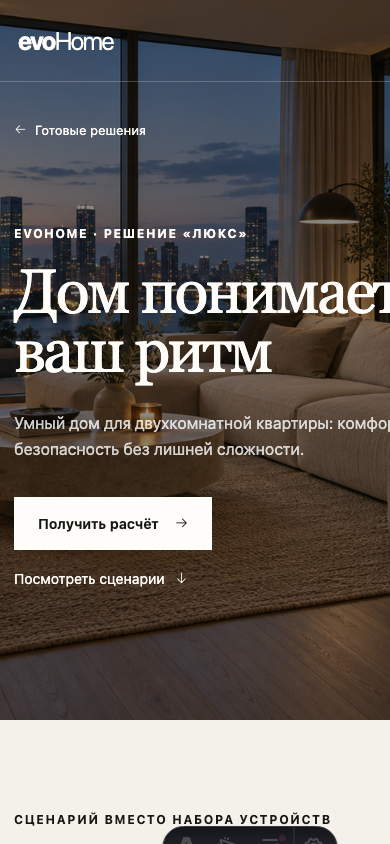
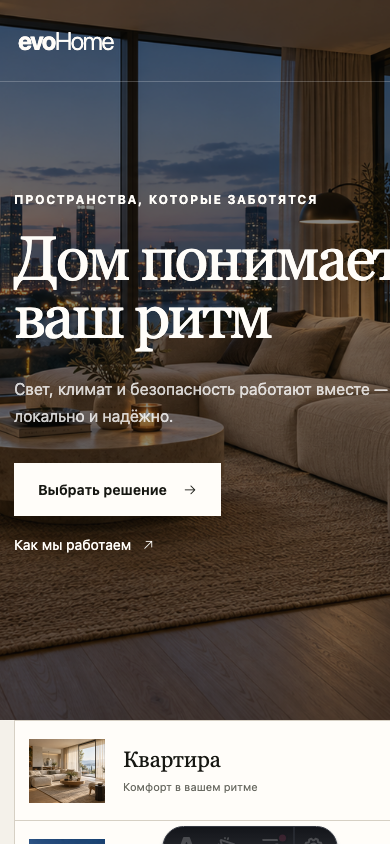
feat(office): enrich evoHome homepage visual story

diff --git a/clients/office/site/src/styles/global.css b/clients/office/site/src/styles/global.css
@@ -144,24 +144,51 @@ form .button { margin-top: 8px; justify-self: start; }
 /* Multi-page structure */
 .home-hero { min-height: 820px; }
 .home-copy { padding-top: 230px; }
-.intro { padding: 140px 0; }
-.intro h2 { max-width: 950px; }
-.intro-grid { margin-top: 55px; display: grid; grid-template-columns: 1fr 1fr; gap: 80px; align-items: end; }
-.intro-grid p { max-width: 520px; margin: 0; color: var(--muted); font-size: 17px; }
-.arrow-link { justify-self: end; display: flex; align-items: center; gap: 14px; border-bottom: 1px solid var(--ink); padding-bottom: 8px; }
-.featured { display: grid; grid-template-columns: 1.3fr .7fr; min-height: 610px; background: var(--paper-deep); }
-.featured-image { display: grid; place-items: center; overflow: hidden; }
-.featured-image img { width: 94%; mix-blend-mode: multiply; }
-.featured-copy { padding: 70px 55px; background: var(--ink); color: var(--white); display: flex; flex-direction: column; justify-content: center; align-items: flex-start; }
-.featured-copy h2 { font-size: clamp(48px,5vw,72px); }
-.featured-copy > p:not(.eyebrow) { color: #b9bab3; margin: 25px 0 35px; }
-.route-cards { padding: 120px 0; display: grid; grid-template-columns: repeat(3,1fr); }
-.route-cards > a { min-height: 300px; padding: 28px; border: 1px solid var(--line); border-right: 0; position: relative; }
-.route-cards > a:last-child { border-right: 1px solid var(--line); }
-.route-cards span { color: var(--muted); font-size: 12px; }
-.route-cards h3 { margin: 120px 0 10px; font: 400 31px Georgia,serif; }
-.route-cards p { color: var(--muted); font-size: 13px; max-width: 250px; }
-.route-cards i { position: absolute; right: 28px; top: 28px; font-size: 22px; }
+.audience-strip { margin-top: -58px; position: relative; z-index: 3; display: grid; grid-template-columns: repeat(3,1fr); background: var(--white); }
+.audience-strip > a { min-height: 116px; padding: 18px; display: grid; grid-template-columns: 92px 1fr auto; gap: 18px; align-items: center; border: 1px solid var(--line); border-right: 0; }
+.audience-strip > a:last-child { border-right: 1px solid var(--line); }
+.audience-strip img { width: 92px; height: 78px; object-fit: cover; }
+.audience-strip strong,.audience-strip span { display: block; }
+.audience-strip strong { margin-bottom: 8px; font: 400 22px Georgia,serif; }
+.audience-strip span { color: var(--muted); font-size: 11px; line-height: 1.35; }
+.audience-strip i { font-size: 19px; }
+.home-benefits,.home-solutions { padding: 130px 0; }
+.home-benefits > .eyebrow { margin-bottom: 44px; }
+.benefit-grid,.solution-preview-grid { display: grid; grid-template-columns: repeat(3,1fr); gap: 24px; }
+.benefit-grid article { border-top: 1px solid var(--line); }
+.benefit-grid img { width: 100%; aspect-ratio: 1.28; object-fit: cover; }
+.benefit-grid article:last-child img { background: var(--paper-deep); object-fit: contain; padding: 12px; }
+.benefit-grid h2 { min-height: 96px; margin-top: 27px; font-size: clamp(31px,3vw,42px); line-height: 1.03; }
+.benefit-grid p { max-width: 330px; margin: 20px 0 0; color: var(--muted); font-size: 14px; }
+.home-solutions { border-top: 1px solid var(--line); }
+.home-section-head { margin-bottom: 58px; display: grid; grid-template-columns: 1.35fr .65fr; gap: 80px; align-items: end; }
+.home-section-head h2 { font-size: clamp(56px,7vw,92px); }
+.home-section-head > p { max-width: 390px; margin: 0; color: var(--muted); }
+.solution-preview-grid > a { background: var(--paper-deep); }
+.solution-preview-grid img { width: 100%; aspect-ratio: 1.35; object-fit: cover; }
+.solution-preview-grid > a:nth-child(2) img { filter: saturate(.78); }
+.solution-preview-grid > a > div { min-height: 230px; padding: 24px; position: relative; border: 1px solid var(--line); border-top: 0; }
+.solution-preview-grid span { color: var(--muted); font-size: 11px; }
+.solution-preview-grid h3 { margin: 54px 0 8px; font: 400 39px Georgia,serif; }
+.solution-preview-grid p { margin: 0; max-width: 250px; color: var(--muted); font-size: 13px; }
+.solution-preview-grid i { position: absolute; top: 22px; right: 23px; font-size: 20px; }
+.home-process { padding: 120px 0; display: grid; grid-template-columns: .72fr 1.28fr; gap: 100px; border-top: 1px solid var(--line); }
+.home-process h2 { font-size: clamp(56px,6vw,82px); }
+.home-process ol { margin: 0; padding: 0; display: grid; grid-template-columns: repeat(2,1fr); list-style: none; border-top: 1px solid var(--line); border-left: 1px solid var(--line); }
+.home-process li { min-height: 190px; padding: 24px; border-right: 1px solid var(--line); border-bottom: 1px solid var(--line); }
+.home-process li span { display: block; color: var(--muted); font-size: 11px; }
+.home-process li strong { display: block; margin-top: 55px; font: 400 26px Georgia,serif; }
+.home-process li p { margin: 9px 0 0; color: var(--muted); font-size: 12px; }
+.project-banner { min-height: 600px; position: relative; display: flex; align-items: center; color: var(--white); overflow: hidden; }
+.project-banner > img,.project-banner-shade { position: absolute; inset: 0; width: 100%; height: 100%; }
+.project-banner > img { object-fit: cover; }
+.project-banner-shade { background: rgb(10 12 10 / .46); }
+.project-banner-copy { position: relative; z-index: 1; }
+.project-banner h2 { max-width: 870px; font-size: clamp(58px,7vw,96px); }
+.project-banner-copy > p:not(.eyebrow) { margin: 28px 0 34px; color: rgb(255 255 255 / .8); }
+.home-contact { padding: 100px 0; display: grid; grid-template-columns: 1.15fr .7fr auto; gap: 70px; align-items: end; }
+.home-contact h2 { font-size: clamp(48px,5.5vw,76px); }
+.home-contact > p { max-width: 380px; margin: 0; color: var(--muted); }
 .page-hero { padding: 125px 0 105px; }
 .page-hero h1 { font-size: clamp(66px,8vw,112px); }
 .page-hero h1 em { color: #85867d; font-style: normal; }
@@ -233,9 +260,17 @@ form .button { margin-top: 8px; justify-self: start; }
   .media-placeholder:first-child { grid-column: 1 / -1; aspect-ratio: 16 / 8; }
   .site-header.header-light nav { background: var(--paper); }
   .site-header.header-light .menu-toggle { color: var(--ink); }
-  .featured { grid-template-columns: 1fr; }
-  .route-cards,.tier-grid,.process-grid { grid-template-columns: 1fr 1fr; }
-  .route-cards > a:nth-child(2),.tier-card:nth-child(2),.process-grid article:nth-child(2) { border-right: 1px solid var(--line); }
+  .audience-strip { grid-template-columns: 1fr; margin-top: 0; width: 100%; }
+  .audience-strip > a { border-right: 1px solid var(--line); border-bottom: 0; }
+  .audience-strip > a:last-child { border-bottom: 1px solid var(--line); }
+  .benefit-grid,.solution-preview-grid { grid-template-columns: 1fr 1fr; }
+  .benefit-grid article:last-child,.solution-preview-grid > a:last-child { grid-column: 1 / -1; }
+  .benefit-grid article:last-child img,.solution-preview-grid > a:last-child img { aspect-ratio: 2.2; }
+  .home-section-head,.home-process,.home-contact { grid-template-columns: 1fr; gap: 45px; }
+  .home-contact { align-items: start; }
+  .home-contact .button { justify-self: start; }
+  .tier-grid,.process-grid { grid-template-columns: 1fr 1fr; }
+  .tier-card:nth-child(2),.process-grid article:nth-child(2) { border-right: 1px solid var(--line); }
   .catalog-head { align-items: flex-start; flex-direction: column; gap: 25px; }
   .contact-page { grid-template-columns: 1fr; gap: 65px; }
 }
@@ -276,11 +311,23 @@ form .button { margin-top: 8px; justify-self: start; }
   .site-footer { padding: 35px 0; align-items: flex-start; flex-direction: column; }
   .footer-links { flex-wrap: wrap; }
   .home-copy { padding-top: 190px; }
-  .intro { padding: 90px 0; }.intro-grid { grid-template-columns: 1fr; gap: 35px; }.arrow-link { justify-self: start; }
-  .featured-copy { padding: 60px 28px; }.featured-image { min-height: 360px; }
-  .route-cards,.tier-grid,.process-grid,.values { grid-template-columns: 1fr; }
-  .route-cards > a,.route-cards > a:nth-child(2),.tier-card,.tier-card:nth-child(2),.process-grid article,.process-grid article:nth-child(2) { border-right: 1px solid var(--line); border-bottom: 0; }
-  .route-cards > a:last-child,.tier-card:last-child,.process-grid article:last-child { border-bottom: 1px solid var(--line); }
+  .audience-strip > a { grid-template-columns: 76px 1fr auto; min-height: 100px; padding: 12px 14px; }
+  .audience-strip img { width: 76px; height: 64px; }
+  .home-benefits,.home-solutions { padding: 90px 0; }
+  .benefit-grid,.solution-preview-grid { grid-template-columns: 1fr; gap: 45px; }
+  .benefit-grid article:last-child,.solution-preview-grid > a:last-child { grid-column: auto; }
+  .benefit-grid article:last-child img,.solution-preview-grid > a:last-child img { aspect-ratio: 1.35; }
+  .benefit-grid h2 { min-height: auto; }
+  .home-section-head { gap: 28px; margin-bottom: 42px; }
+  .home-process { padding: 90px 0; gap: 38px; }
+  .home-process ol { grid-template-columns: 1fr; }
+  .home-process li { min-height: 155px; }
+  .home-process li strong { margin-top: 38px; }
+  .project-banner { min-height: 620px; }
+  .home-contact { padding: 80px 0; gap: 28px; }
+  .tier-grid,.process-grid,.values { grid-template-columns: 1fr; }
+  .tier-card,.tier-card:nth-child(2),.process-grid article,.process-grid article:nth-child(2) { border-right: 1px solid var(--line); border-bottom: 0; }
+  .tier-card:last-child,.process-grid article:last-child { border-bottom: 1px solid var(--line); }
   .page-hero { padding: 85px 0 70px; }.page-hero h1 { font-size: 58px; }.page-hero > p:last-child { margin-left: 0; }
   .object-switch { overflow-x: auto; }.object-switch button { flex: 0 0 auto; }
   .size-pills { flex-wrap: wrap; }.tier-card { min-height: 450px; }

diff --git a/clients/office/site/design-qa.md b/clients/office/site/design-qa.md
@@ -1,63 +1,41 @@
-# Design QA: многостраничный сайт evoHome
+# Design QA: визуальная доработка главной evoHome
 
-Дата проверки: 2026-09-20.
+Дата: 2026-09-20. Состояние: локальная production-сборка, без авторизации.
 
-## Область проверки
+## Артефакты и нормализация
 
-- Главная: `http://127.0.0.1:4321/`.
-- Каталог решений: `http://127.0.0.1:4321/solutions/`.
-- Карточка решения: `http://127.0.0.1:4321/solutions/lux-2-room/`.
-- Контакты и реальный канал связи: `http://127.0.0.1:4321/contacts/`.
-- Desktop: 1440 × 1000 CSS px; mobile detail: 390 × 844 CSS px.
-- Сравнение выполнено с тремя исходными визуалами: `website-homepage-evohome.png`, `website-solutions-catalog.png`, `website-solution-detail.png`.
+- Source visual truth: `../plans/website-homepage-evohome.png`, 941 × 1672 px.
+- Implementation desktop: `design-implementation-homepage.png`, 1440 × 6000 px, CSS viewport 1440 × 6000, device scale 1.
+- Implementation mobile: `design-implementation-mobile.png`, 390 × 844 px, CSS viewport 390 × 844, device scale 1.
+- Совмещённое сравнение: `design-qa-comparison.png`, source и implementation в одном кадре.
+- Сравнение выполнено по одинаковому состоянию главной страницы. Из-за разной исходной длины макета оценивались композиция, масштаб и ритм секций, а не точное совпадение координат.
 
-## Актуальные доказательства
+## Сравнение и обязательные поверхности
 
-- `design-implementation-homepage.png` — главная, desktop.
-- `design-implementation-solutions.png` — каталог, desktop.
-- `design-implementation-detail.png` — карточка решения, desktop.
-- `design-implementation-mobile-detail.png` — карточка решения, mobile 390 px.
-- `design-qa-comparison.png` — три пары source / implementation в одном кадре.
+- Типографика: сохранена контрастная пара крупной антиквы и нейтрального гротеска; масштаб и переносы заголовков соответствуют editorial-направлению. Осталась допустимая P3-разница из-за системной Georgia.
+- Ритм и компоновка: вместо одного разреженного ряда теперь есть связная последовательность hero → тип объекта → выгоды → решения → этапы → проект → контакт. На 390 px сетки складываются в одну колонку без горизонтального переполнения.
+- Цвета: тёплый ivory, графит, тонкие серо-бежевые разделители и белые CTA соответствуют исходному visual direction; градиенты и тяжёлые тени не добавлялись.
+- Изображения: новые интерьерные кадры резкие, согласованы по температуре и кадрированию; план квартиры сохранён как схематический инженерный акцент.
+- Тексты: пользовательская польза описана конкретно — комфорт, безопасность, локальная работа, этапы и следующий шаг.
+- Focused regions: отдельно проверены hero с объектной навигацией, три карточки выгод, карточки решений и мобильный первый экран. Эти области содержат основные типографические, сеточные и image-crop риски.
 
-## Результат по шагам
+## История итераций
 
-1. **Главная — исправно.** Первый экран, отдельные смысловые секции и три маршрутные карточки образуют полноценную главную страницу. Основные CTA ведут в каталог и на страницу подхода.
-2. **Каталог решений — исправно.** Это отдельный маршрут с понятным выбором типа объекта, размера и уровня решения. Доступные действия ведут в detail или контакты; недоступные варианты явно отключены и помечены «скоро».
-3. **Карточка решения — исправно.** Hero, сценарии, интерактивная схема, состав, FAQ и следующий шаг сохраняют композицию исходного visual direction и образуют законченный пользовательский путь.
-4. **Mobile detail — исправно.** На 390 px нет горизонтального overflow (`innerWidth = scrollWidth = 390`); заголовок, CTA и следующий раздел читаемы. Мобильное меню открывается, а `aria-expanded` меняется с `false` на `true`.
-5. **Контакты — исправно.** Сайт не имитирует отправку заявки: вместо фальшивой формы показан честный текст о неподключённой онлайн-отправке и реальная ссылка на Telegram.
-
-## Сверка с исходными визуалами
-
-- Сохранена общая арт-дирекция: тёплая нейтральная палитра, крупная контрастная антиква, спокойная инженерная подача, интерьерные изображения и тонкие разделители.
-- Главная намеренно стала отдельной входной страницей, а не detail-страницей под видом главной; иерархия и маршруты теперь соответствуют задаче многостраничного сайта.
-- Каталог переведён из визуальной витрины в отдельный понятный маршрут. В текущем объёме активен один реальный объект/размер, остальные варианты не притворяются работающими фильтрами.
-- Detail сохраняет ключевой образ исходника и ведёт в честный канал контакта.
-- Точное покадровое совпадение не является целью: это адаптация трёх предоставленных направлений в единую систему страниц.
-
-## Повторная проверка прежних замечаний
-
-- **Fake form — исправлено.** Компонент контакта не содержит локального success-сценария или полей, которые якобы отправляются. Пользователь видит прямую ссылку в Telegram и пояснение об отсутствии отправки с сайта.
-- **Fake filters — исправлено.** Единственные доступные варианты имеют активное состояние и `aria-pressed="true"`; ещё не реализованные варианты являются `disabled` и подписаны «скоро».
-- **Недостающая ARIA-семантика — исправлено.** Основная навигация имеет `aria-label`; текущие ссылки получают `aria-current="page"`; мобильная кнопка имеет доступное имя и обновляемый `aria-expanded`; группы выбора имеют доступные названия.
-
-## UX и accessibility
-
-- Сильные стороны: последовательная навигация на всех страницах, заметные CTA, крупные цели касания, рабочее мобильное меню, содержательные `alt` у ключевых изображений.
-- Проверено в accessibility tree: главная ссылка, основная навигация, текущий маршрут и мобильное раскрытие доступны по семантике.
-- Скриншоты и browser accessibility tree не доказывают полное соответствие WCAG. Отдельный ручной проход экранным диктором и измерение контраста не выполнялись.
+1. [P1] В прежней версии нижняя часть главной состояла из трёх пустых карточек высотой около 300 px и не воспроизводила плотность исходного макета. Evidence: пользовательский скриншот и предыдущий `design-implementation-homepage.png`.
+2. Исправление: пустой ряд удалён; добавлены визуальные карточки типов объектов, три benefit-блока, решения с изображениями, четыре этапа, широкий проектный баннер и компактный CTA.
+3. Post-fix evidence: `design-qa-comparison.png`, desktop-скриншот и browser-проверка всех секций. Ранее найденный P1 устранён; новых P0/P1/P2 нет.
 
 ## Проверки
 
 - `npm run build`: успешно, 5 статических маршрутов.
-- Browser console: 0 ошибок, 0 предупреждений приложения.
-- Навигация и мобильное меню: проверены в реальном локальном браузере.
-- Горизонтальный overflow на mobile detail: отсутствует.
+- Встроенный браузер: desktop 1440 × 1000 и mobile 390 × 844.
+- Основные ссылки и семантические элементы присутствуют в accessibility tree.
+- Консоль приложения: ошибок не обнаружено.
 
 ## Findings
 
-- Действующих P0/P1/P2 визуальных или интерактивных замечаний нет.
-- [P3] Системная Georgia близка по характеру к исходной антикве, но не повторяет её пластику; заменить после получения брендового display-шрифта.
-- [P3] В сохранённом headless mobile PNG шрифтовая иконка меню может не попасть в самый ранний кадр; в реальном браузере после загрузки она отображается и кнопка работает. Это ограничение capture engine, не приложения.
+- Действующих P0/P1/P2 замечаний нет.
+- [P3] После получения брендового display-шрифта стоит заменить Georgia, чтобы точнее повторить пластику референса.
+- [P3] Исходный макет содержит иной набор интерьерных сюжетов; текущие изображения выдерживают арт-дирекцию, но не являются покадровыми копиями.
 
 final result: passed
